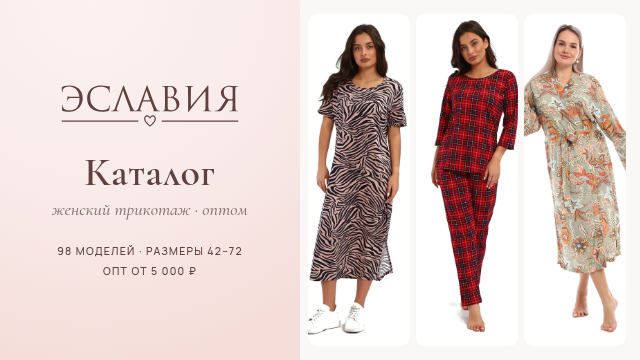
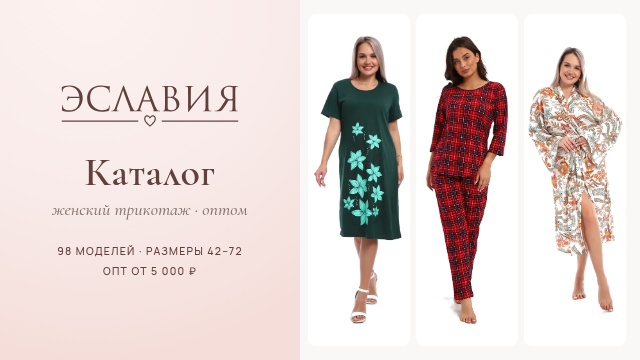
Cover: full figures, no cropping

diff --git a/tools/cover.html b/tools/cover.html
@@ -10,10 +10,10 @@ h1{margin:18px 0 0;font:600 40px/1 "Cormorant Garamond",serif;color:#60413d;lett
 .t{margin:6px 0 0;font:italic 500 18px "Cormorant Garamond",serif;color:#8a7672}
 .f{margin:22px 0 0;font-size:10.5px;letter-spacing:.12em;text-transform:uppercase;color:#60413d;line-height:1.9}
 .r{flex:1;display:grid;grid-template-columns:repeat(3,1fr);gap:6px;padding:14px 14px 14px 8px}
-.r div{border-radius:8px;overflow:hidden;background:#f5eeea}
-.r img{width:100%;height:100%;object-fit:cover;object-position:50% 18%;display:block}
+.r div{border-radius:8px;overflow:hidden;background:#fff;display:flex;align-items:center;justify-content:center}
+.r img{height:292px;width:auto;max-width:96%;object-fit:contain;display:block}
 </style></head><body>
 <div class="l"><div class="logo"></div><h1>Каталог</h1><p class="t">женский трикотаж · оптом</p>
 <p class="f">98 моделей · размеры 42–72<br>опт от 5 000 ₽</p></div>
-<div class="r"><div><img src="../img/m-126a/01-720.webp"></div><div><img src="../img/mtk-116k/01-720.webp"></div><div><img src="../img/k-301/01-720.webp"></div></div>
+<div class="r"><div><img src="cov/m-102.png"></div><div><img src="cov/mtk-116k.png"></div><div><img src="cov/k-302.png"></div></div>
 </body></html>
